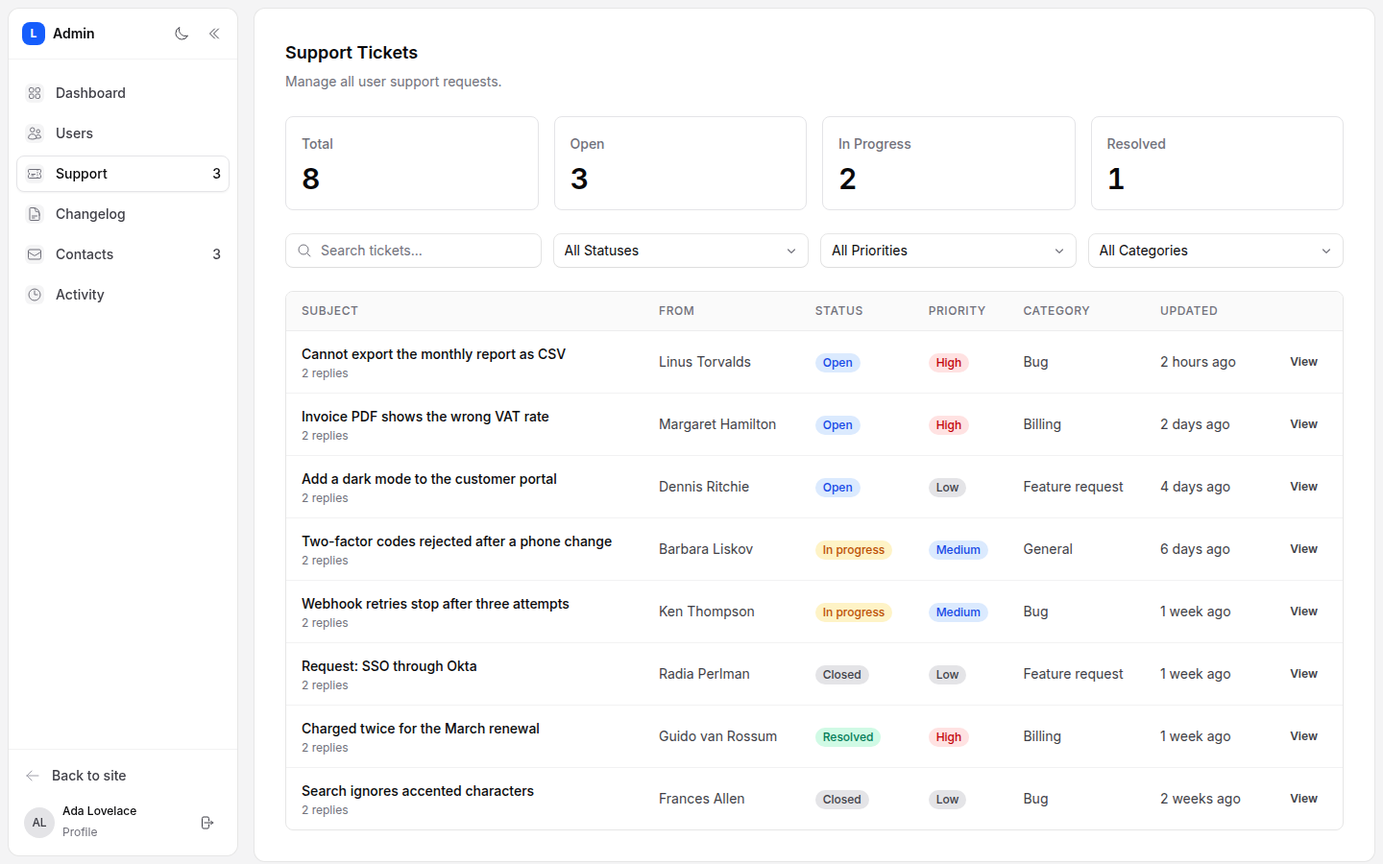
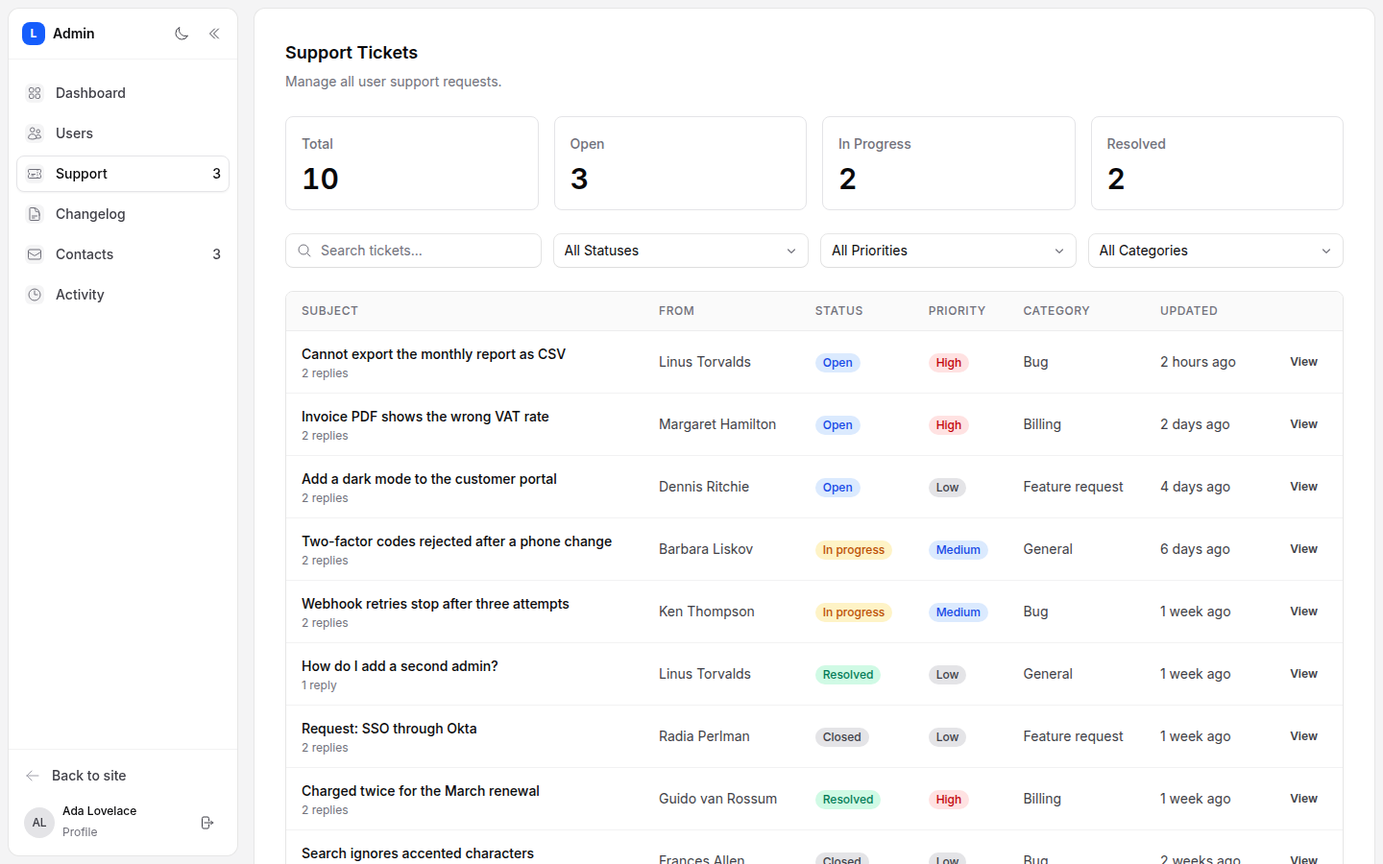
Docs and screenshots for 0.5.0

diff --git a/scripts/screenshots/ScreenshotSeeder.php b/scripts/screenshots/ScreenshotSeeder.php
@@ -100,6 +100,29 @@ class ScreenshotSeeder extends Seeder
             ]);
         }
 
+        // Linus's own list on /support: the open ticket above, plus two settled ones.
+        foreach ([
+            ['How do I add a second admin?', 'general', 'low', 'resolved', 9],
+            ['Request: export to XLSX', 'feature_request', 'low', 'closed', 16],
+        ] as [$subject, $category, $priority, $status, $days]) {
+            $ticket = SupportTicket::factory()->create([
+                'user_id' => $users[0]->id,
+                'subject' => $subject,
+                'category' => $category,
+                'priority' => $priority,
+                'status' => $status,
+                'closed_at' => now()->subDays($days - 2),
+                'created_at' => now()->subDays($days),
+                'updated_at' => now()->subDays($days - 2),
+            ]);
+            TicketReply::factory()->create([
+                'ticket_id' => $ticket->id,
+                'user_id' => $users[0]->id,
+                'message' => 'Could you point me to where this lives in the settings?',
+                'created_at' => now()->subDays($days),
+            ]);
+        }
+
         $entries = [
             ['Scheduled exports', 'feature', 'Reports can now be emailed on a daily, weekly or monthly schedule.'],
             ['Faster dashboard loads', 'improvement', 'The overview now renders in under 200 ms on accounts with more than 50,000 records.'],

diff --git a/README.md b/README.md
@@ -13,7 +13,7 @@ Core + 7 optional modules, installed by a turnkey `php artisan ui-kit:install`. 
 - **Auth pages** — login, register, forgot/reset password, email verification, confirm password, and a **two-factor challenge** page (Livewire 4 single-file components + Fortify), light and dark
 - **Working 2FA** — the login flow stages a TOTP/recovery-code challenge for users who enabled two-factor auth (enable/confirm UI ships with the `profile` module)
 - **Admin shell** — collapsible sidebar, mobile bottom nav with a "More" sheet, theme toggle, current-user footer with profile link + logout; nav is config-driven from `config/admin.php` with Heroicons v2 icon names
-- **User shell** — a light authenticated layout (`layouts/user-shell`) used by user-facing pages like `/profile`
+- **User shell** — a light layout (`layouts/user-shell`) for the pages outside the admin panel (`/profile`, `/support`, `/contact`, `/changelog`). Signed in, its header shows Admin (for admins), the avatar and Log out; signed out, Sign in and Register. Support and Changelog links appear once their modules are installed
 - **Dashboard stub + Users list/detail** — stat tiles, a searchable table with avatars and an Admin badge, a detail page with a guarded Delete user button, and the `<x-ui-kit::page-header>` component every admin screen opens with
 - **Built on the Shipbytes design system** — every view uses [`shipbytes/blade-ui`](https://shipbytes.dev/docs/design-system) (`ds::` Blade components, semantic tokens that switch for dark mode on their own, Heroicons v2, Inter); it comes with the kit, so there's no separate install step
 - **`WithDesignSystemPagination`** — a Livewire trait that pages any list with the design system's pagination, keeping its search and filters
@@ -25,9 +25,9 @@ Core + 7 optional modules, installed by a turnkey `php artisan ui-kit:install`. 
 | Slug | What it adds | Composer deps |
 |---|---|---|
 | `admin-middleware` | Spatie Permissions wiring (falls back to `is_admin` boolean if skipped) | `spatie/laravel-permission:^6.10` |
-| `support-tickets` | Admin ticket queue + replies (Mailables left to you) | — |
-| `changelog` | Admin-authored changelog with public feed helper | `mews/purifier:^3.4` |
-| `contacts` | Contact-form submission inbox | — |
+| `support-tickets` | Users open and follow tickets at `/support`; admins answer from a queue; mail both ways | — |
+| `changelog` | Admin-authored changelog, published at `/changelog` with a category filter | `mews/purifier:^3.4` |
+| `contacts` | Public contact form at `/contact` and the admin inbox it fills, replies sent by mail | — |
 | `profile` | Self-service name/email/password/avatar + full 2FA management | — (optional: `intervention/image`) |
 | `impersonation` | Login-as-user with exit ribbon + button partial | `lab404/laravel-impersonate:^1.7.5` |
 | `activity-log` | Spatie activity log + filterable admin viewer | `spatie/laravel-activitylog:^4.10` |
@@ -137,7 +137,7 @@ composer update shipbytes/laravel-ui-kit
 
 - Publishes every kit + dependency config, view, class, route file, and migration
 - Patches `config/fortify.php` (`views=false`, `home=/`, and turns off the features whose endpoints the kit's own pages replace: registration, password reset, profile and password updates, passkeys) and publishes Fortify's 2FA columns migration
-- Patches `config/admin.php` nav and `routes/admin.php` / `routes/ui-kit-user.php` between `/* ui-kit:* */` markers — **idempotently**, and without wiping other modules' entries
+- Patches `config/admin.php` nav, `routes/admin.php` and both groups of `routes/ui-kit-user.php` (one open to guests, one for signed-in users) between `/* ui-kit:* */` markers — **idempotently**, and without wiping other modules' entries
 - **Wires your Vite entrypoints**: adds `@import './ui-kit.css';` to `resources/css/app.css` and `import './ui-kit';` to `resources/js/app.js`, and deletes the skeleton's Instrument Sans `--font-sans` from `app.css` (see [Finish wiring](#finish-wiring-the-irreducible-checklist))
 - Runs `vendor:publish` for every dependent package, one `php artisan migrate`, seeds the admin role, runs `storage:link`
 - Generates `app/Models/Concerns/UiKitUser.php` bundling exactly the traits your chosen modules need (Spatie `HasRoles`, lab404 `Impersonate`, Fortify `TwoFactorAuthenticatable` plus `avatarUrl()`) — **and applies it to `app/Models/User.php` automatically** (the patch is lint-checked and reverted if it would break the file; you only edit by hand if the installer says so)
@@ -171,8 +171,8 @@ composer update shipbytes/laravel-ui-kit
    (package installed, `ui-kit.css` imports it and scans the kit's views, no
    leftover 0.3 theme file, no font override in `app.css`, nav icons resolve,
    admin lists use the design system's pagination), trait applied, storage
-   link, 2FA columns, duplicate route names and mail config. Every failing row
-   says how to fix it.
+   link, 2FA columns, each module's routes and mail views, duplicate route
+   names and mail config. Every failing row says how to fix it.
 
 > The `UiKitUser` trait used to be a manual step here — the installer now
 > applies it to `app/Models/User.php` itself and only asks you to do it by
@@ -347,6 +347,83 @@ Secrets are read with `Fortify::currentEncrypter()`, so `Fortify::encryptUsing()
 
 Without the `profile` module (or without the trait applied), login simply never challenges — nothing breaks.
 
+## Mail
+
+The `support-tickets` and `contacts` modules send mail. Each mailable is a published
+stub in `app/Mail/` with a markdown view in `resources/views/mail/`, so change the
+wording, the subject or the recipients there.
+
+| Mailable | Sent when | To |
+|---|---|---|
+| `NewTicketMail` | a user opens a ticket | the admins (replying writes to the user) |
+| `TicketReplyMail` | a user replies, or an admin does | the admins, or the ticket's owner; the link opens the admin page or the user's own |
+| `TicketStatusChangedMail` | an admin changes a ticket's status | the ticket's owner, with the old and new status |
+| `ContactSubmittedMail` | someone sends the contact form | the admins (replying writes to the sender) |
+| `ContactConfirmationMail` | the same | the sender, with a copy of the message |
+| `ContactReplyMail` | an admin replies from the inbox | the sender: the reply, then their message quoted |
+
+**The admins** are `\Shipbytes\UiKit\Support\UiKit::admins()`: users with the Spatie
+`admin` role when `admin-middleware` is installed, else users with `is_admin`. To send
+admin mail to a shared mailbox instead, list addresses in `.env`:
+
+```dotenv
+UI_KIT_ADMIN_ADDRESSES="support@example.com,ops@example.com"
+```
+
+(or set `mail.admin_addresses` in `config/ui-kit.php`; a non-empty list replaces the
+admin users).
+
+**Queued.** The mailables implement `ShouldQueue` on the default queue. With
+`QUEUE_CONNECTION=sync` they go out during the request; with the Laravel 12 skeleton's
+`database` default, run `php artisan queue:work` or nothing is sent.
+
+**A failure never loses the row.** The ticket, reply or message is saved before the mail
+is attempted, and a send that throws is logged as `ui-kit: could not send App\Mail\…`
+with the error; the form still succeeds. The admin screens say so: "Reply saved, but the
+email failed: …". On a real queue a failure happens in the worker instead and lands in
+`failed_jobs`.
+
+**Set `MAIL_FROM_ADDRESS`.** The doctor's `mail from address configured` row warns while
+it is unset or still `hello@example.com`.
+
+**The look** is Laravel's stock markdown theme, with your `APP_NAME` in the header and no
+kit branding. To restyle it, `php artisan vendor:publish --tag=laravel-mail` and edit
+`resources/views/vendor/mail/html/themes/default.css`, or add a theme of your own and
+name it in `config/mail.php` under `markdown.theme`.
+
+The doctor's `support-tickets mail views published` and `contacts mail views published`
+rows check every mailable class and view is in place.
+
+### Public forms of your own
+
+The contact form and the new-ticket form share two guards: a honeypot field and an hourly
+limit counted only after validation passes. Use them on a form of yours:
+
+```php
+use Shipbytes\UiKit\Livewire\Concerns\WithSpamProtection;
+
+public function submit(): void
+{
+    if ($this->caughtInHoneypot()) {            // a bot filled the hidden field
+        $this->sent = true;                     // fake success, save nothing
+        return;
+    }
+
+    $this->validate();
+
+    if (! $this->passesRateLimit('quote:'.request()->ip(), 3)) {   // 3 an hour
+        return;                                 // the refusal is in the `limit` error
+    }
+
+    // save, then UiKit::sendMail(UiKit::admins(), new QuoteRequestedMail($quote));
+}
+```
+
+```blade
+@error('limit') <x-ds::alert tone="danger">{{ $message }}</x-ds::alert> @enderror
+<x-ui-kit::honeypot />
+```
+
 ## Installing modules later
 
 ```bash
@@ -367,13 +444,21 @@ Re-running `ui-kit:install` is safe: it detects the existing install, keeps your
 Ships `EnsureUserIsAdmin` (Spatie role check) + `AdminRoleSeeder`. The installer publishes Spatie's config/migrations, migrates, seeds the `admin`/`user` roles, and swaps the middleware in `config/admin.php` from the `is_admin` fallback to the role check. The `UiKitUser` trait (with `HasRoles`) is applied to your User model automatically; grant the role with `php artisan ui-kit:make-admin you@example.com`.
 
 ### `support-tickets`
-Admin-only queue (the public form is yours to build). The Support nav entry shows the open-ticket count on its own (see [Sidebar badges](#sidebar-badges)). The list opens with four stat tiles (total, open, in progress, resolved), then a search field and status/priority/category filters over a table (Subject, From, Status, Priority, Category, Updated) with badge tones from `SupportTicket::statusTone()` / `priorityTone()`, and Livewire pagination. A ticket shows the thread, an inline reply, and Status and Priority selects in one labelled panel, validated server-side. Mailables are intentionally omitted so you plug in your own notification flow.
+Both halves of a help desk. **Users** (signed in) get `/support`: their own tickets with a status filter, status and priority badges and 15 to a page; `/support/create`: subject, a category from `SupportTicket::categories()` and a message of 20 to 5,000 characters; and `/support/{ulid}`: the conversation, a reply box, and Close / Reopen. A closed or resolved ticket takes no replies until it is reopened. Access goes through the published `App\Policies\SupportTicketPolicy` (Laravel finds it by name): the owner or an admin may view and update a ticket, only an admin may delete one. Limits: five new tickets an hour per user, ten replies an hour per ticket, counted only after validation passes; the create form has a honeypot.
+
+**Admins** keep the queue at `/admin/support`: four stat tiles (total, open, in progress, resolved), a search field and status/priority/category filters over a table with badge tones from `SupportTicket::statusTone()` / `priorityTone()`. A ticket shows the thread, an inline reply, and Status and Priority selects. The Support nav entry shows the open count (see [Sidebar badges](#sidebar-badges)).
+
+**Mail** both ways (see [Mail](#mail)): a new ticket and each user reply go to the admins; an admin reply and a status change go to the owner.
 
 ### `changelog`
-Admin CRUD + `ChangelogEntry::published()` scope for a public feed. The list is a table with a title search, a category filter, category badges (`ChangelogEntry::categoryTone()`) and Published/Draft badges; the form's Published toggle is a `ds::switch` saved with the rest of the form. HTML is sanitized via `mews/purifier`. For a public page, add a route rendering your own view over the `published()` scope (the module ships only the admin side).
+Admin CRUD at `/admin/changelog`: a table with a title search, a category filter, category badges (`ChangelogEntry::categoryTone()`) and Published/Draft badges; the form's Published toggle is a `ds::switch`. Bodies are sanitized with `mews/purifier` on save.
+
+**Public** at `/changelog`, for guests and users alike: published entries (`ChangelogEntry::published()`: published and dated today or earlier), newest first, grouped by month, each with its category badge. The category filter is a row of links (`ds::tabs` in navigation mode) carrying per-category counts from one query, and lives in the query string (`/changelog?category=fix`), so a filtered view can be shared. Categories are `ChangelogEntry::categories()`.
 
 ### `contacts`
-Inbox for a public contact form that writes to `contact_submissions`. Stat tiles (total, unread, replied, archived), a search field and a status filter over a table with a select column; selecting rows shows a bulk bar (Mark read, Mark unread, Archive, Delete). A message opens in a `ds::modal` with its reply draft (bring your own Mailable). Archiving sets `archived_at`; archived messages leave the inbox and show under the Archived filter. When `support-tickets` is also installed, a **Copy to Ticket** button appears automatically. The Contacts nav entry shows the unread count (unread and not archived) on its own.
+**Public** at `/contact`, for guests and users (a signed-in user's name and email are filled in): name, email, a subject from `contacts.subjects` in `config/ui-kit.php` (five neutral labels, edit them freely) and a message of 10 to 5,000 characters. A honeypot fakes success for bots, and each address may send three an hour (counted after validation). The message is saved with the sender's IP, the admins get a `ContactSubmittedMail` and the sender a `ContactConfirmationMail`, and the form gives way to a thank-you with a **Send another** button.
+
+**Admins** read the inbox at `/admin/contacts`: stat tiles (total, unread, replied, archived), a search field and a status filter over a table with a select column; selecting rows shows a bulk bar (Mark read, Mark unread, Archive, Delete). A message opens in a `ds::modal`; its reply is saved and sent as a `ContactReplyMail` ("Re: …", the reply above the quoted message), and the inbox says "Reply sent to …" or, when the mail fails, "Reply saved, but the email failed: …". Archiving sets `archived_at`; archived messages show under the Archived filter. With `support-tickets` installed, a **Copy to Ticket** button appears. The Contacts nav entry shows the unread count.
 
 ### `profile`
 Cards under `/profile` (rendered in the user shell, not the admin shell): update info + avatar, update password, two-factor authentication, delete account. The avatar is a round `ds::avatar` (initials until a photo exists) beside a `ds::file-upload` drop zone with Save photo, Cancel and Remove; deleting the account confirms the password in a `ds::modal`. Avatars are stored on the public disk under a random 40-character name with a content-derived extension, resized to 200×200 when `intervention/image` is installed; replacing a photo deletes the old file, and deleting the account deletes the photo. The profile stores `avatar_path` with `forceFill()`, so a stock `User` model's `$fillable` doesn't need changing. The generated trait's `avatarUrl()` puts the photo in the admin rail, the user list and detail, and the user shell. Re-sending the verification email is limited to six a minute per user.
@@ -384,6 +469,10 @@ Two Blade partials over `lab404/laravel-impersonate`. The package ships its rout
 ### `activity-log`
 Paginated admin viewer over `spatie/laravel-activitylog`: a table of when, who, event (with the log name as a small badge under it), subject and description, filtered by labelled log stream, user email and date range fields. Add the `LogsActivity` trait to models you want logged (see Spatie's docs).
 
+### Public and user routes
+
+The module pages live in `routes/ui-kit-user.php`, in two groups: `/contact` and `/changelog` in the web-only group (guests too), `/profile` and `/support/*` in the web + auth group. Rename a path there if it clashes with one of yours; keep the route name (`contact`, `changelog.public`, `support.index`…), which the kit's links use. The doctor's `no duplicate route names` row catches a name that collides.
+
 ## Environment reference
 
 ```dotenv
@@ -392,7 +481,7 @@ UI_KIT_BRAND_NAME="Acme"
 UI_KIT_BRAND_LOGO="/images/logo.png"
 UI_KIT_HOME_ROUTE="home"
 
-# --- Mail (required for password reset, email verification) --------------
+# --- Mail (password reset, verification, tickets, the contact form) -------
 MAIL_MAILER=smtp
 MAIL_HOST=smtp.mailgun.org
 MAIL_PORT=587
@@ -401,6 +490,8 @@ MAIL_PASSWORD=your-smtp-password
 MAIL_ENCRYPTION=tls
 MAIL_FROM_ADDRESS="noreply@example.com"
 MAIL_FROM_NAME="${APP_NAME}"
+UI_KIT_ADMIN_ADDRESSES=""             # optional: admin mail to these instead of the admin users
+QUEUE_CONNECTION=sync                 # or keep 'database' and run php artisan queue:work
 ```
 
 In local dev, `MAIL_MAILER=log` works — mail lands in `storage/logs/laravel.log`.

diff --git a/CHANGELOG.md b/CHANGELOG.md
@@ -10,6 +10,131 @@ the project adheres to [Semantic Versioning](https://semver.org/spec/v2.0.0.html
 
 ## [Unreleased]
 
+The user-facing halves of three modules. Until now `support-tickets`, `contacts`
+and `changelog` shipped only their admin screens: the ticket queue had no way for
+a user to open a ticket, the inbox's reply was saved and never sent, and the
+changelog had no reader. Each now has its public or signed-in pages, the mail
+that connects the two sides, and doctor rows for what the installer promises.
+New routes make it a minor release: "Upgrading from 0.4" at the end has the steps.
+
+### Breaking
+
+- **Five new routes.** `support-tickets` adds `/support`, `/support/create` and
+  `/support/{ulid}` for signed-in users (`support.index`, `support.create`,
+  `support.show`); `contacts` adds `/contact` (`contact`) and `changelog` adds
+  `/changelog` (`changelog.public`), both open to guests. An app that already
+  has a route at one of those paths ends up with two, and only one answers:
+  rename the kit's path in `routes/ui-kit-user.php` and keep its route name,
+  which the kit's links use. A colliding route *name* fails the doctor's
+  `no duplicate route names` row, and `route:cache`.
+- **`routes/ui-kit-user.php` has a second group.** A `Route::middleware(['web'])`
+  group between `/* ui-kit:public-routes-start */` and `/* ui-kit:public-routes-end */`
+  markers sits above the web + auth one, and modules patch it through the new
+  `public_routes` registry key. The installer never overwrites the file without
+  `--force`, so an upgraded app keeps its 0.4 copy: the installer then warns that
+  it skipped `/contact` and `/changelog`, and the doctor's
+  `routes/ui-kit-user.php has the public-routes block` row fails with the fix.
+- **Support and contacts send mail.** A ticket, a reply, a status change and a
+  contact message now each mail someone (see Added). If you wired mail of your
+  own after the 0.4 post-install notes, remove it or each one goes out twice.
+
+### Added
+
+- **Support tickets for users.** `/support` lists the signed-in user's own
+  tickets with a status filter (kept in the query string), status and priority
+  badges from the model's tone methods and 15 to a page, and an empty state with
+  a New ticket button. `/support/create` takes a subject (up to 255), a category
+  from the new `SupportTicket::categories()` and a message of 20 to 5,000
+  characters, then opens the ticket (priority medium, status open, the IP saved)
+  with that message as its first reply and goes to it. `/support/{ulid}` shows
+  the thread with a reply box (2 to 5,000 characters, refused while the ticket is
+  closed or resolved) and Close / Reopen. Limits: five tickets an hour per user,
+  ten replies an hour per ticket. The pages render in the user shell.
+- **`App\Policies\SupportTicketPolicy`**, published and found by Laravel by
+  name: the owner or an admin may view and update a ticket, only an admin may
+  delete one.
+- **Mail, as published stubs.** Six mailables in `app/Mail/` with markdown views
+  in `resources/views/mail/`, on Laravel's stock markdown theme with no kit
+  branding: `NewTicketMail` (to the admins, reply-to the user, linking the admin
+  page), `TicketReplyMail` (both directions; `toAdmin` picks the readers and the
+  link), `TicketStatusChangedMail` (to the owner, old to new),
+  `ContactSubmittedMail` (to the admins, reply-to the sender),
+  `ContactConfirmationMail` (to the sender, with a copy) and `ContactReplyMail`
+  ("Re: …", the reply above the quoted message). They implement `ShouldQueue` on
+  the default queue, so `QUEUE_CONNECTION=sync` sends them during the request.
+  Every send happens after the row is saved, inside a try/catch that logs
+  `ui-kit: could not send <class>`, so a mail that fails never fails the form.
+- **A public contact form** at `/contact`: name, email, a subject from
+  `ui-kit.contacts.subjects` (five neutral labels in the published config), and a
+  message of 10 to 5,000 characters; a signed-in user's name and email are filled
+  in. Three messages an hour per IP. It saves the message with the sender's IP,
+  mails the admins and the sender, and shows a thank-you with a Send another
+  button.
+- **A public changelog** at `/changelog`: published entries, newest first, grouped
+  by month, each with its category badge and its body. The category filter is a
+  row of links (`ds::tabs` in navigation mode) with per-category counts from one
+  query, kept in the query string. `ChangelogEntry::categories()` lists the
+  categories.
+- **The user shell works signed out.** Guests see Sign in, and Register when the
+  route exists, in place of the avatar and Log out. Support (signed in) and
+  Changelog links appear when their routes exist, the way Profile does, marked
+  `aria-current` on their own pages, and wrap onto a second row on a phone.
+- **`UiKit::admins()`**: who gets admin mail. The Spatie `admin` role when the
+  User model has `hasRole()`, else `is_admin`; `ui-kit.mail.admin_addresses`
+  (`UI_KIT_ADMIN_ADDRESSES`, comma-separated) replaces that list when set.
+- **`UiKit::sendMail($recipients, $mailable)`**: one message per recipient, never
+  throws, returns the first failure for the screen to report.
+- **`WithSpamProtection` and `<x-ui-kit::honeypot />`**, shared by the contact
+  and new-ticket forms and usable on forms of your own: a honeypot field
+  (`website`, visually hidden, `tabindex="-1"`, `autocomplete="off"`) that fakes
+  success without saving, and `passesRateLimit()`, which counts an attempt only
+  after validation has passed.
+- **Registry keys** `public_routes` (patched like `user_routes`, idempotent by
+  route name, re-applied in update mode) and `mail` (mailable => view).
+- **Doctor rows:** `routes/ui-kit-user.php published` and its auto-load row,
+  `routes/ui-kit-user.php has the public-routes block` (fails only once an
+  installed module needs it), `<module> routes registered` for every installed
+  module's admin, user and public routes, `<module> mail views published` for
+  `support-tickets` and `contacts`, and `support ticket policy published`.
+- The fresh-app CI job smoke-tests `/contact`, `/changelog` and the guest
+  redirect from `/support`.
+
+### Changed
+
+- **The admin ticket screen mails the owner.** A reply sends `TicketReplyMail`
+  linking the user's own ticket page and says "Reply sent to …"; a status change
+  sends `TicketStatusChangedMail`. When the mail fails, the screen says the reply
+  or the status was saved and the email was not.
+- **The inbox reply is sent.** `ContactList@submitReply` sends `ContactReplyMail`
+  and says "Reply sent to …", or "Reply saved, but the email failed: …".
+- The admin ticket list's category filter reads `SupportTicket::categories()`.
+- The installer copies a module's `Mail/` and `Policies/` stubs into `app/`.
+- Post-install notes: the changelog's "optional public feed", the contacts
+  module's "wire up a public contact form" and "plug in your own ContactReply",
+  and support-tickets' "ships without Mailables" are gone; both mailing modules
+  note the queue worker and `MAIL_FROM_ADDRESS` instead. Module summaries in
+  `ui-kit:list-modules` describe both halves.
+
+### Upgrading from 0.4
+
+1. `composer require shipbytes/laravel-ui-kit:^0.5`.
+2. Commit first, then re-run the installer in update mode with every installed
+   module: `php artisan ui-kit:install --force --modules=…` (the names
+   `ui-kit:list-modules` shows). It republishes `routes/ui-kit-user.php` with the
+   public-routes block and patches the modules' lines back in, and publishes the
+   new components, mailables, views and policy. As before, `--force` overwrites
+   `config/admin.php` and `config/ui-kit.php`, so read `git diff` and restore
+   your own nav entries and values. (Without `--force`, add
+   `Route::middleware(['web'])->group(function () { /* ui-kit:public-routes-start */ /* ui-kit:public-routes-end */ });`
+   above the auth group in `routes/ui-kit-user.php` yourself and run
+   `php artisan ui-kit:install-module support-tickets contacts changelog`, which
+   re-copies those modules' files.)
+3. `npm run build`.
+4. Set `MAIL_FROM_ADDRESS` in `.env`, and run `php artisan queue:work` unless
+   `QUEUE_CONNECTION=sync`. Optionally set `UI_KIT_ADMIN_ADDRESSES` to send
+   admin mail to a shared mailbox.
+5. `php artisan ui-kit:doctor`. Every row should pass, or skip with a reason.
+
 ## [0.4.1] - 2026-10-23
 
 A hardening release: no breaking changes. The installer closes five Fortify
